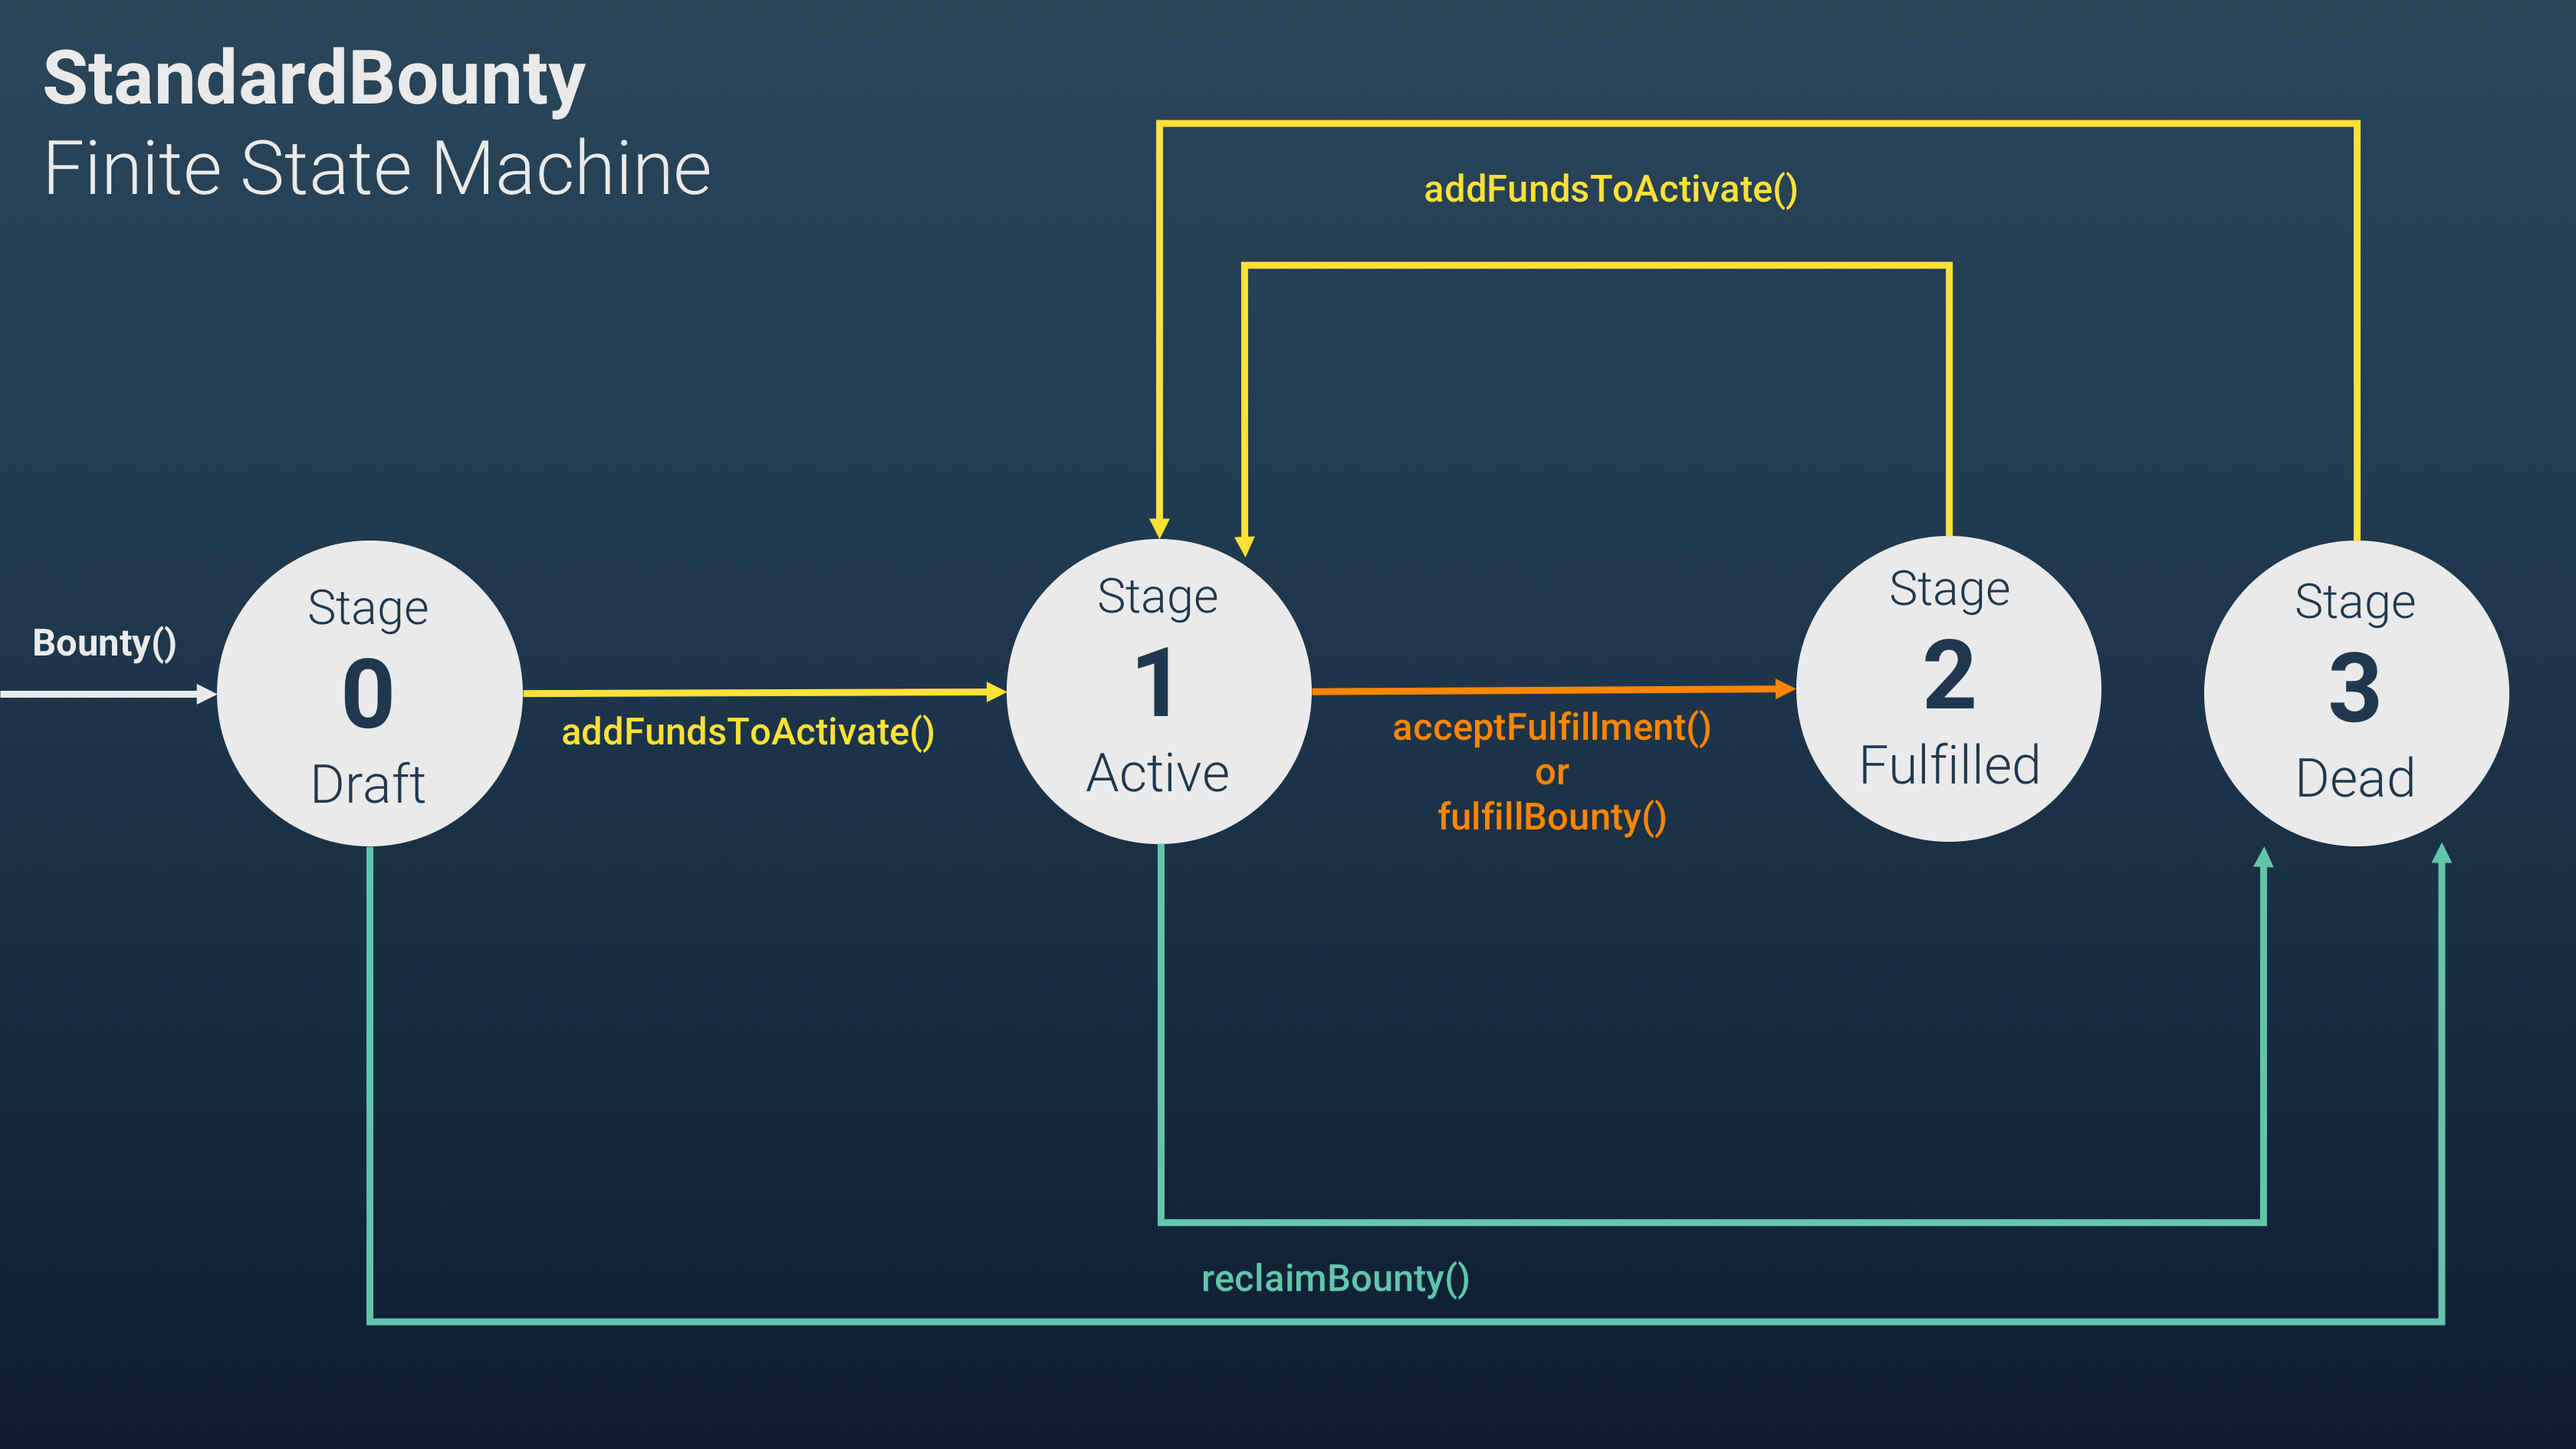
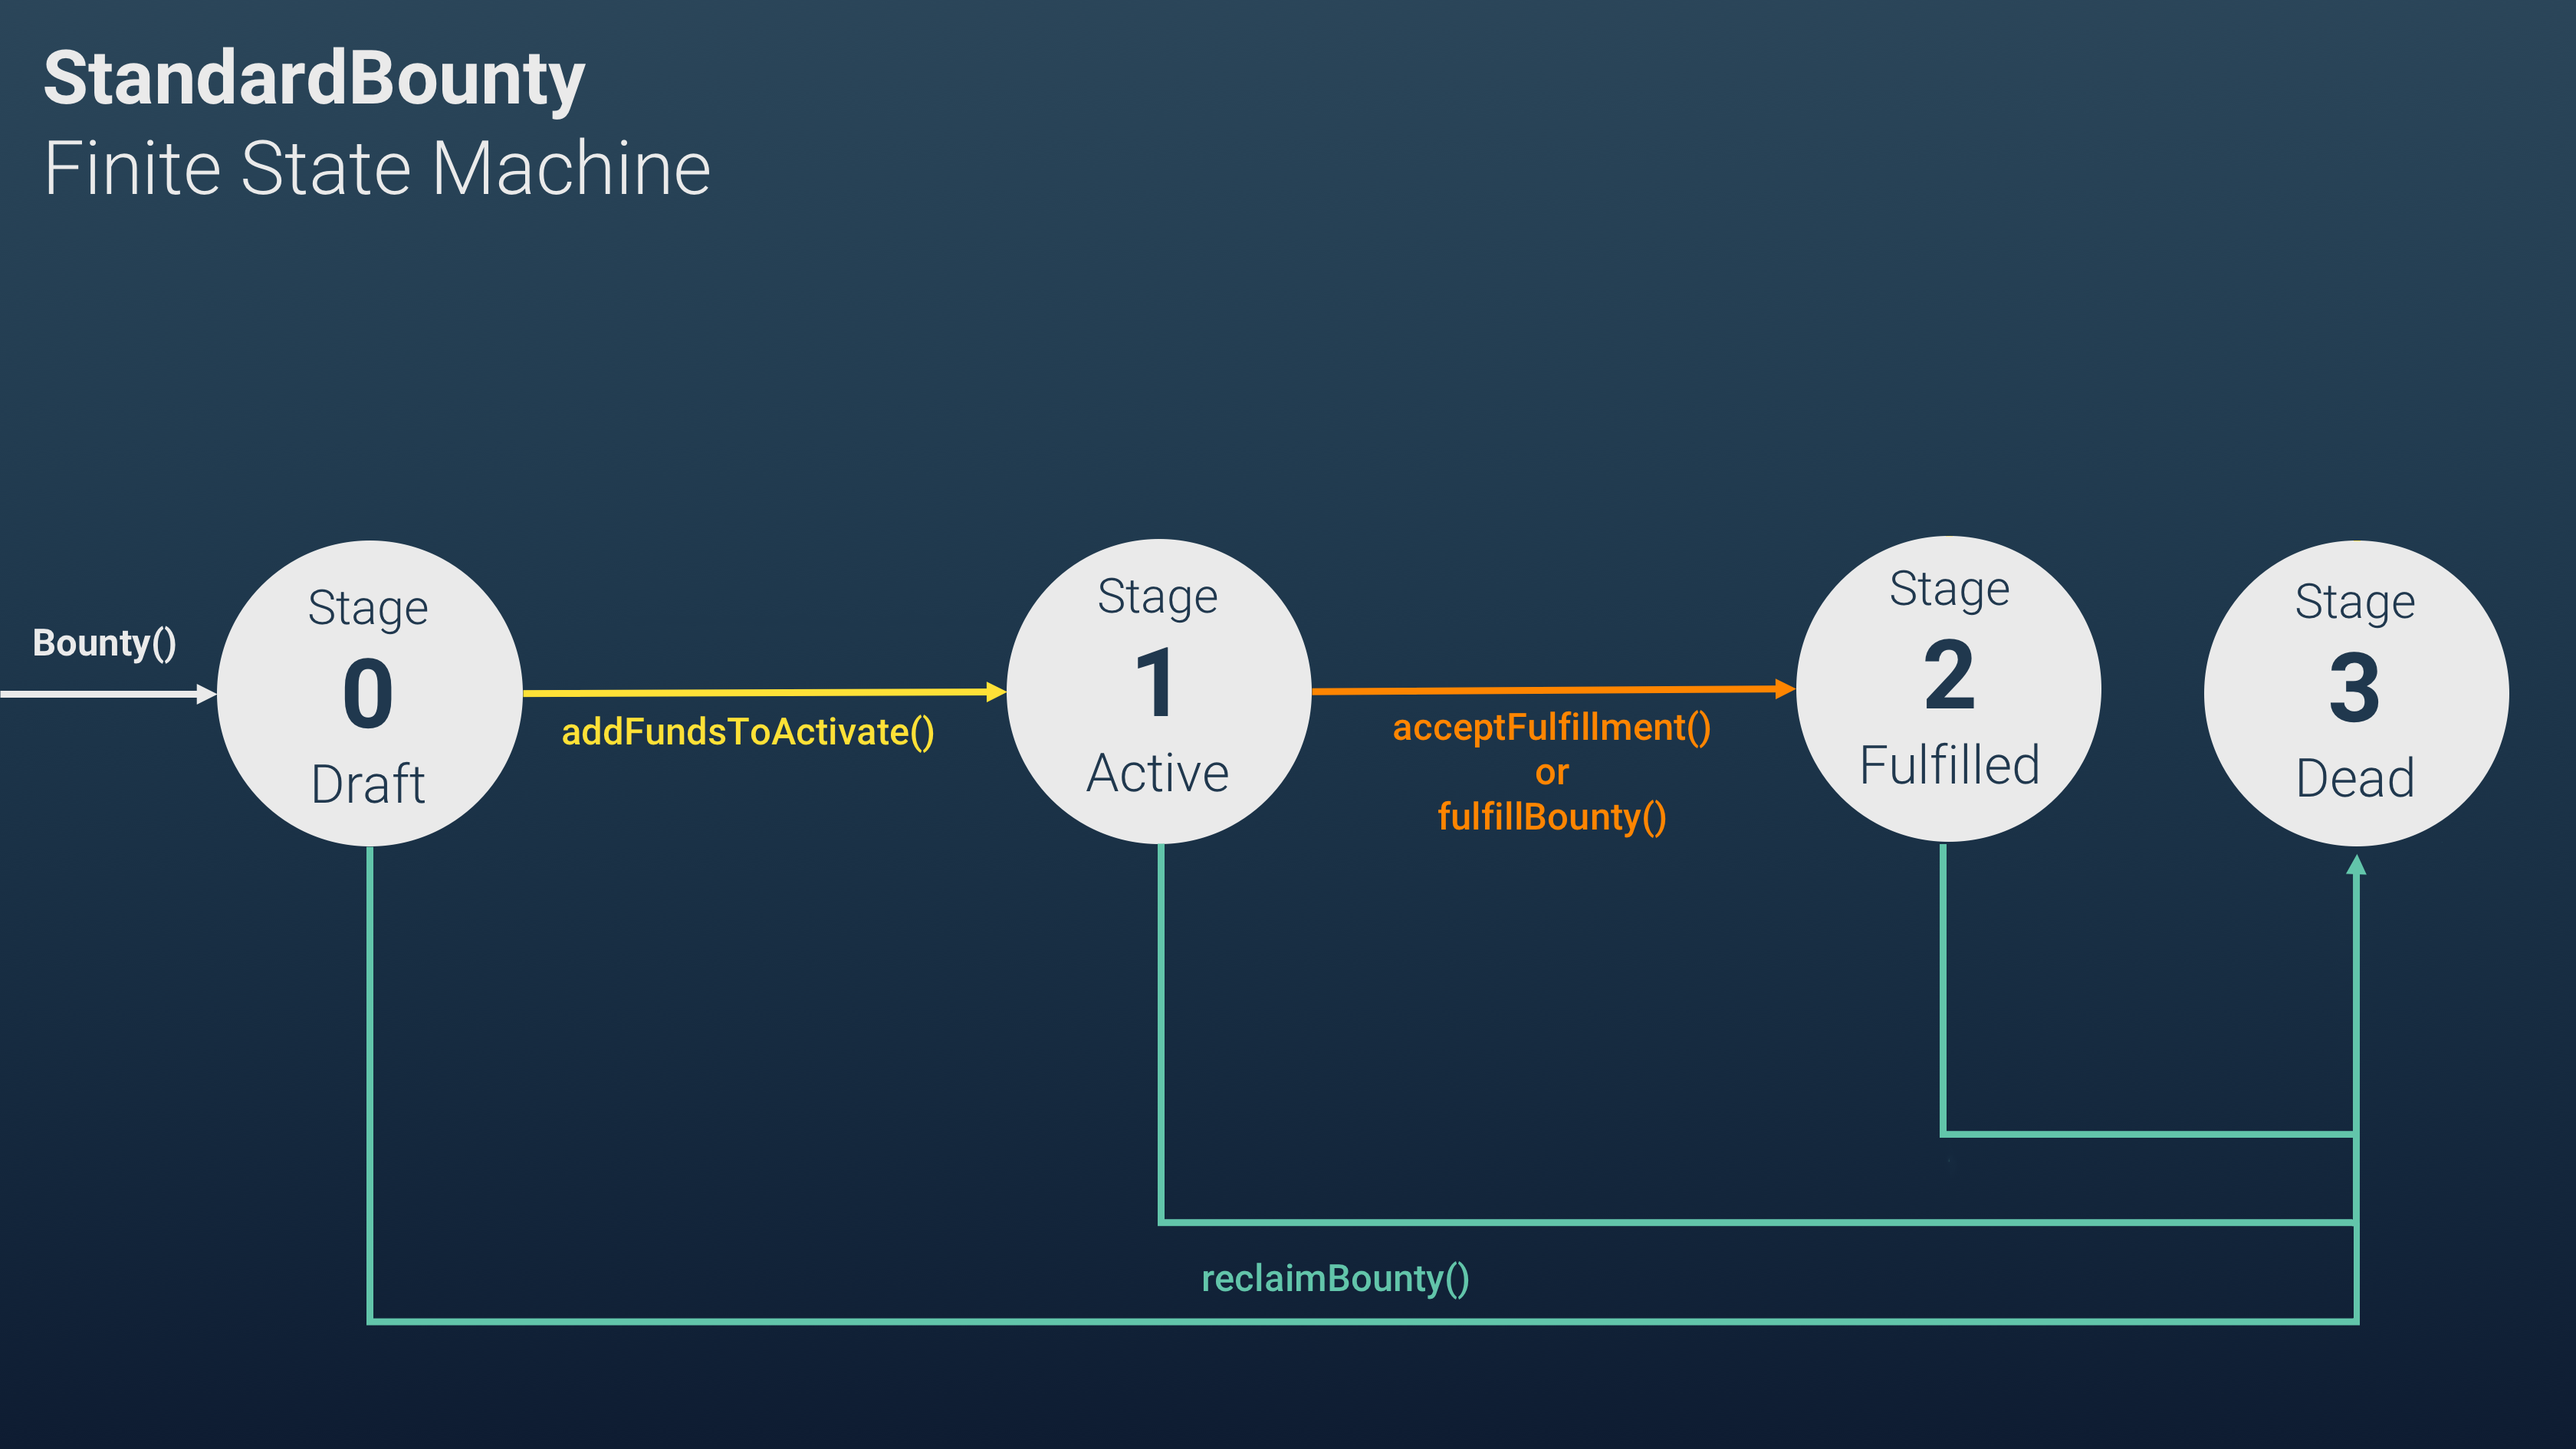
Vanity updates

diff --git a/README.md b/README.md
@@ -1,5 +1,32 @@
 # StandardBounties
 
-Bounties can be used to facilitate transactions between two parties, where a qualitative task or artifact is being exchanged for ETH.
+`Version 0.0.1`
+
+1. [Description](#1-rationale)
+2. [Requirements](#2-implementation)
+3. [Installation](#3-installation)
+4. [Usage](#4-usage)
+
+A set of standard contracts to be used as interfaces for any kind of bounty, either qualitative or quantitative in nature.
+
+Original concept & code by @mbeylin. Maintained by @gnsps & @mbeylin.
+
+## 1. Rationale
+
+Bounties can be used to facilitate transactions between two parties, where a quantitative task, qualitative task or artifact is being exchanged for ETH.
+
+Code bug bounties are included here as an implemented extension of the generalized bounty and to serve as an example of a pure quantitative bounty that can automatically be paid out.
+
+## 2. Implementation
+
+The generalized bounty contract (StandardBounty.sol) is implemented as a State Machine as represented below:
 
 ![Bounties State Machine](/standardbountyfsm.png?raw=true "StandardBounty Finite State Machine")
+
+All the extension bounty types **musn't** break the state diagram above. They should differ in validation of state change but not in transition rules.
+
+### 2.1 Invariant check pattern for _CodeBugBounty.sol_
+
+
+
+
